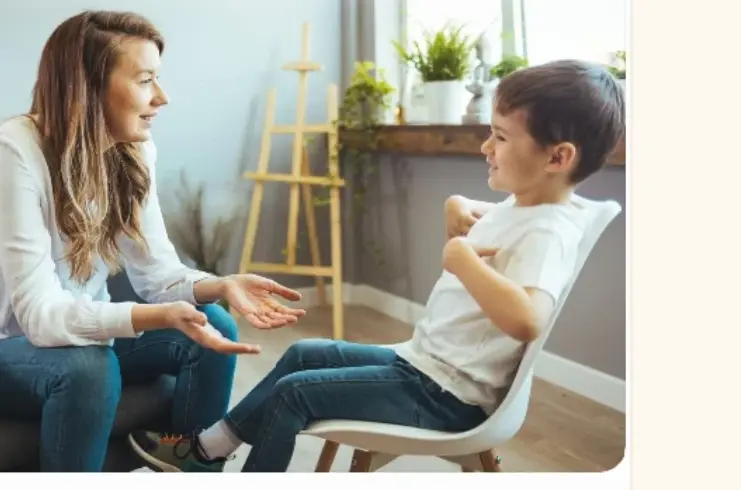
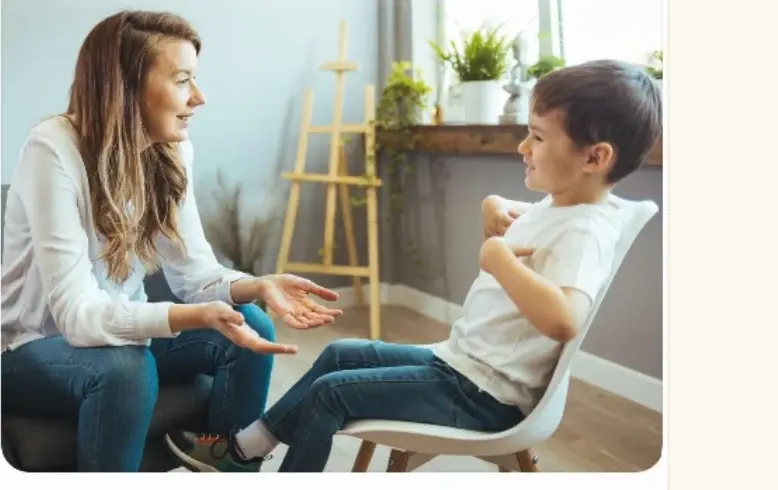
fix: correct service card photo crops and container heights
- Re-crop all 4 service images with accurate column boundaries:
  left column x=0–683, right column x=705–1482 (skipping the
  ~20px cream divider gap at x=684–704)
- Change photo container from aspectRatio 2:1 to per-card fixed
  heights: 220px for top cards (490px tall source), 180px for
  bottom cards (155px tall source), eliminating the 1.84× zoom
  that showed only heads on Homeschool/Mainstream cards
- Use objectPosition 'center top' for top cards to show faces,
  'left center' and 'center center' for bottom cards

Claude-Session: https://claude.ai/code/session_01PLRV2N5tdZ4f7KmRmfyyS8

diff --git a/aldeia-wellness/src/components/TherapeuticHub.jsx b/aldeia-wellness/src/components/TherapeuticHub.jsx
@@ -248,7 +248,7 @@ const SERVICES = [
     body: 'Our qualified learning therapists identify the cognitive and perceptual barriers that make reading, writing and maths harder than it needs to be. Then they address the root cause.',
     tags: ['Homeschool', 'Mainstream'],
     colour: '#006CC0',
-    img: '/images/svc-learning-therapy.webp', imgPos: 'center center',
+    img: '/images/svc-learning-therapy.webp', imgPos: 'center top', imgH: 220,
   },
   {
     title: 'Behavioural Support',
@@ -256,7 +256,7 @@ const SERVICES = [
     body: 'We work with children and families to understand what the behaviour is expressing — and then develop practical, compassionate strategies that work at home and at school.',
     tags: ['Individual', 'Family'],
     colour: '#C8363F',
-    img: '/images/svc-behavioural-support.webp', imgPos: 'center center',
+    img: '/images/svc-behavioural-support.webp', imgPos: 'center top', imgH: 220,
   },
   {
     title: 'Homeschool Pathways',
@@ -264,7 +264,7 @@ const SERVICES = [
     body: 'From curriculum consultation to therapeutic co-teaching, we walk alongside homeschool families. Your child learns; your family stays connected.',
     tags: ['Curriculum', 'Co-teaching'],
     colour: '#7BA93A',
-    img: '/images/svc-homeschool-pathways.webp', imgPos: 'left center',
+    img: '/images/svc-homeschool-pathways.webp', imgPos: 'left center', imgH: 180,
   },
   {
     title: 'Mainstream School Support',
@@ -272,7 +272,7 @@ const SERVICES = [
     body: 'We liaise with teachers, compile support plans and provide in-school or after-school sessions that complement what\'s happening in the classroom.',
     tags: ['School liaison', 'Support plans'],
     colour: '#7E479A',
-    img: '/images/svc-mainstream-support.webp', imgPos: 'left center',
+    img: '/images/svc-mainstream-support.webp', imgPos: 'center center', imgH: 180,
   },
 ]
 
@@ -304,7 +304,7 @@ function ServicesSection() {
               transition={{ duration: 0.6, delay: i * 0.08 }}
               className="bg-white rounded-[22px] border border-stone/50 flex flex-col overflow-hidden"
             >
-              <div className="w-full overflow-hidden" style={{ aspectRatio: '2/1' }}>
+              <div className="w-full overflow-hidden" style={{ height: `${s.imgH || 220}px` }}>
                 <img src={s.img} alt={s.title} className="w-full h-full object-cover" style={{ objectPosition: s.imgPos || 'center' }} />
               </div>
               <div className="p-7 flex flex-col gap-3 flex-1" style={{ borderTop: `5px solid ${s.colour}` }}>
